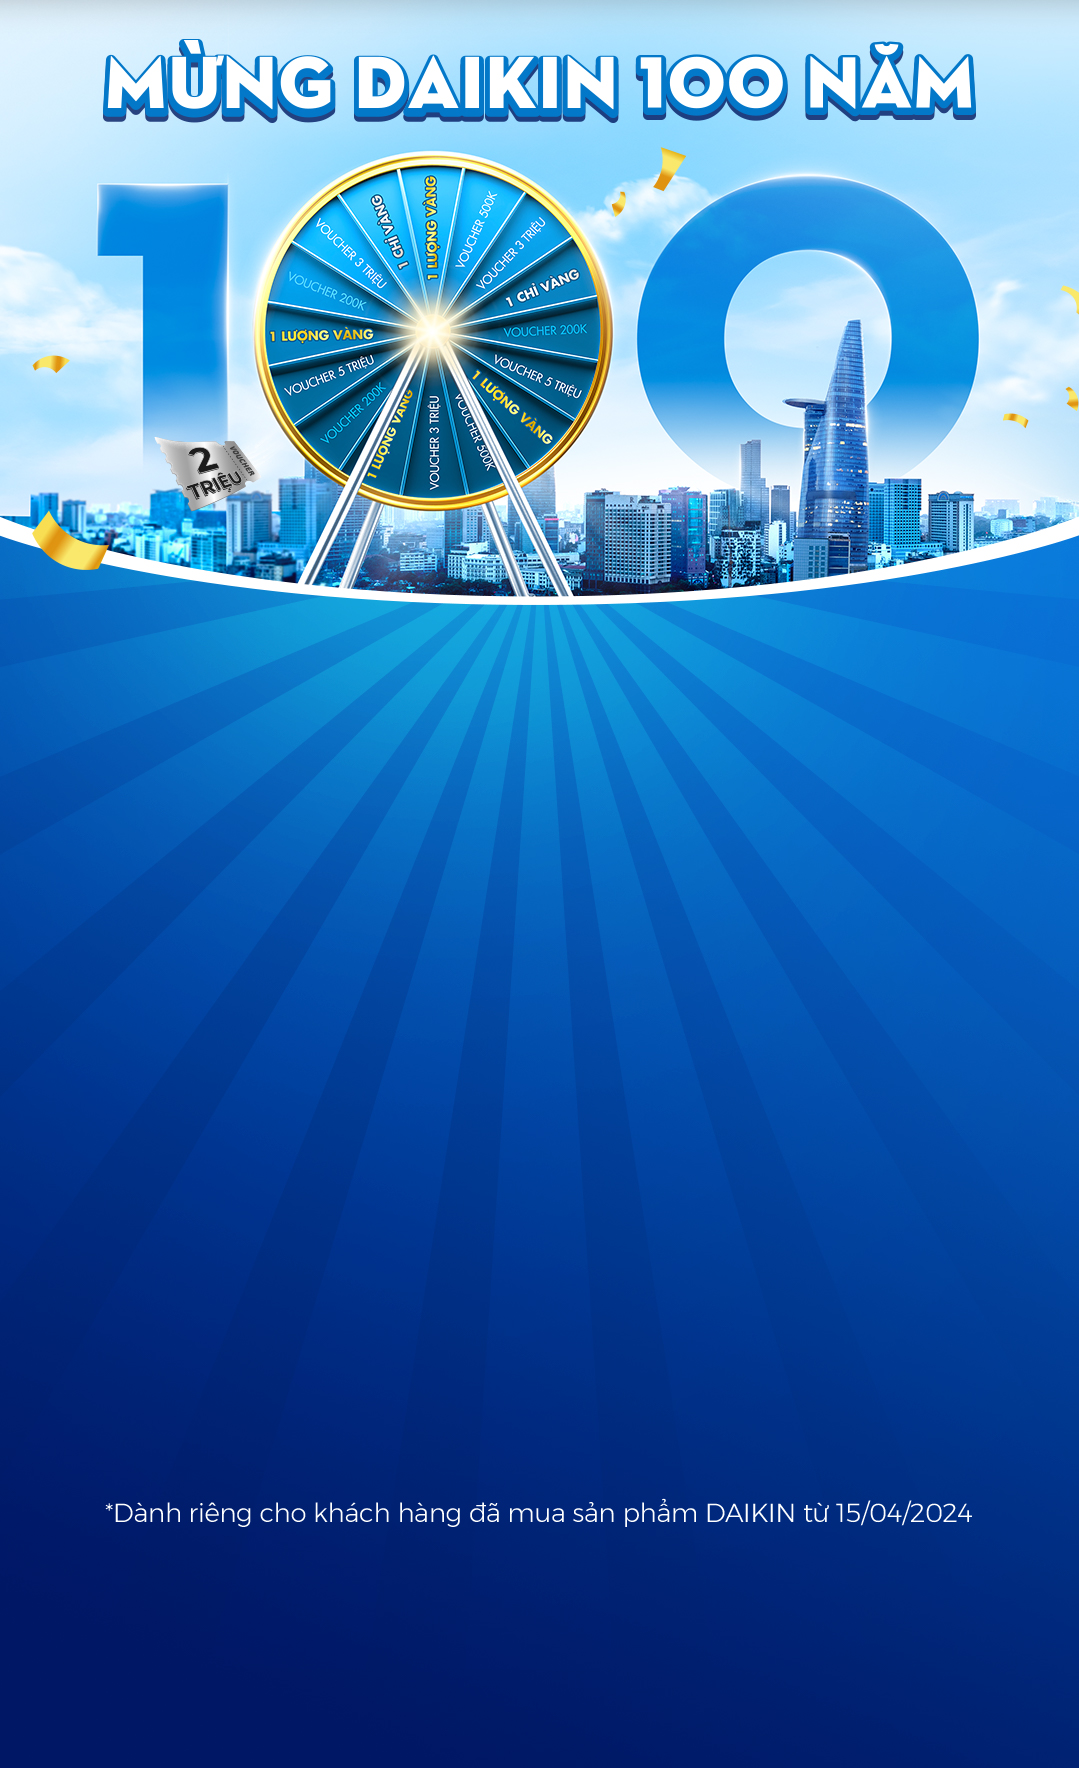
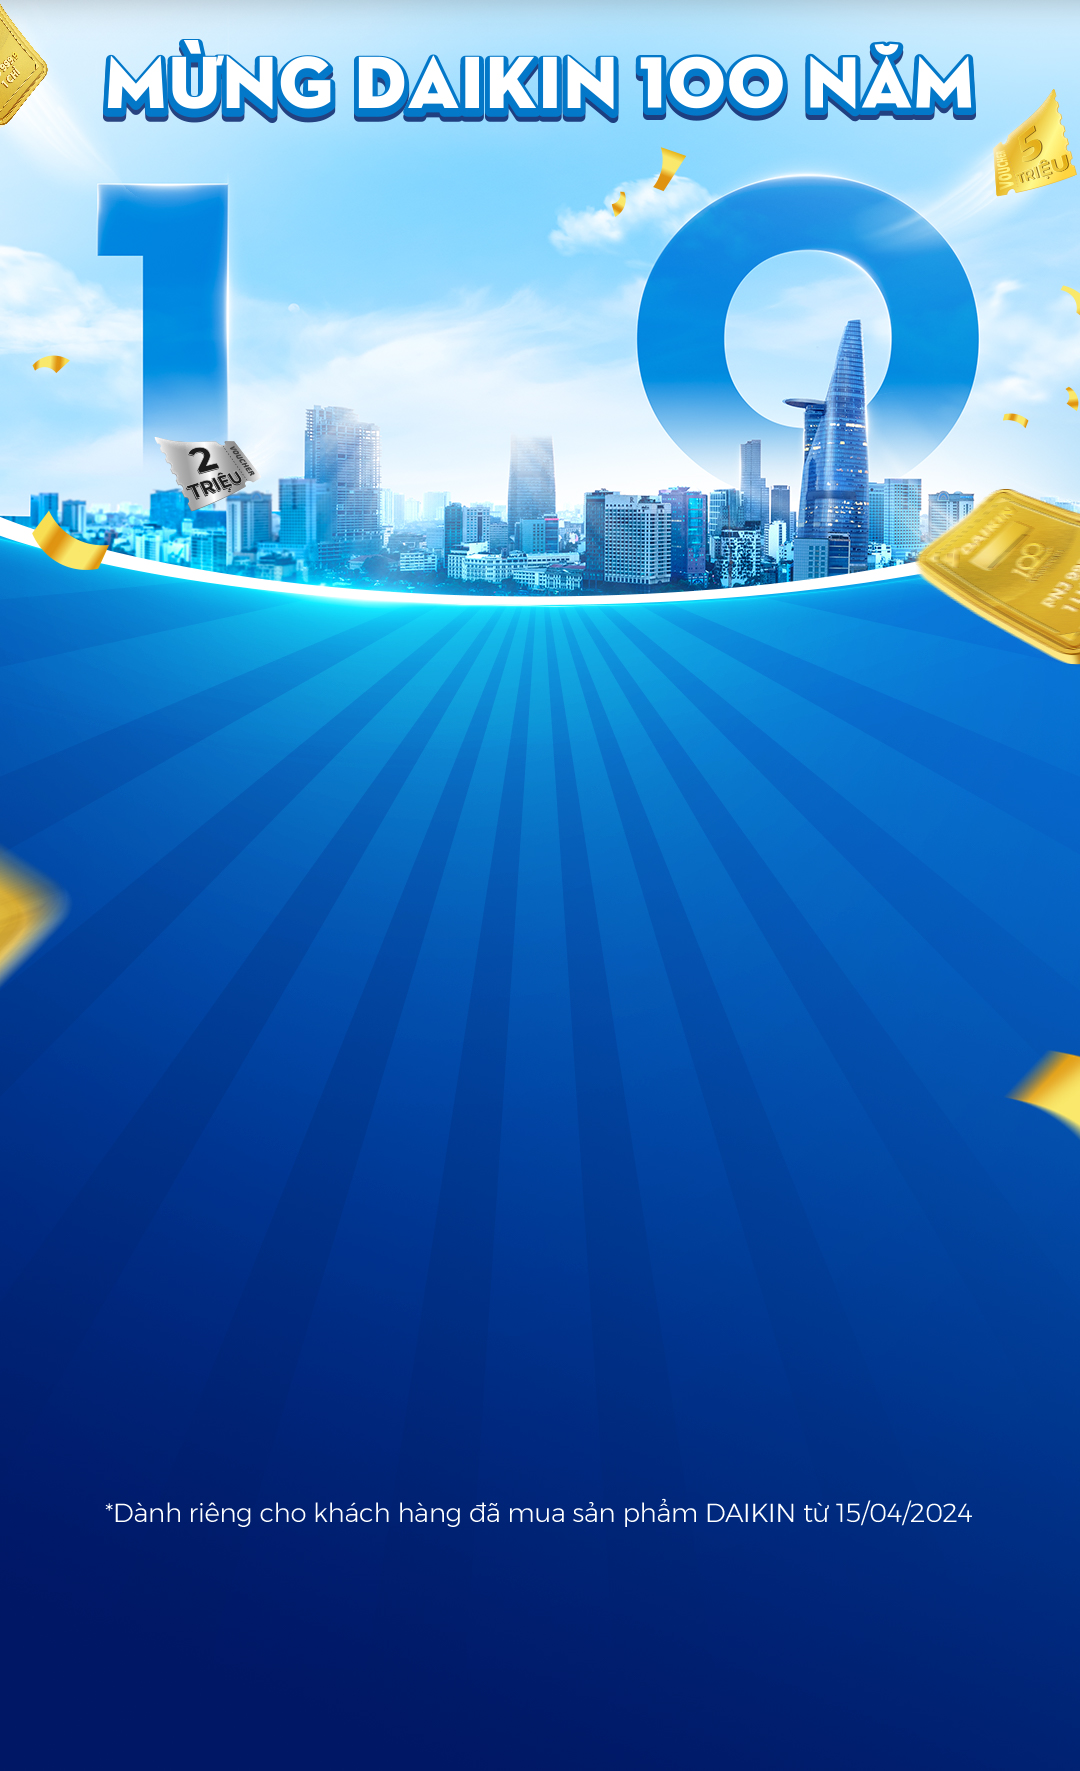
update hiệu ứng trang chủ

diff --git a/css/hieu-ung.css b/css/hieu-ung.css
@@ -6,13 +6,16 @@
 @keyframes zoomk {
     from {
          transform: scale(3.5);
+         opacity: 0.7;
     }
    
-    3% {
+    4.7% {
        transform: scale(1);
+       opacity: 1;
     }
     100% {
        transform: scale(1);
+        opacity: 1;
     }
 }
 .top-banner{
@@ -43,35 +46,35 @@
 }
 .light-3l29{
   position: absolute;
-  width: 17%;
+  width: 14%;
   left: 0%;
-  top:1%;
+  top:2.6%;
   z-index: 2;
   animation: light-hl linear infinite 10s;
 }
 @keyframes light-hl {
     from {
-        left: 0%;
+        left: 0.8%;
         opacity: 0;
     }
     30%{
-      left: 0%;
+      left: 0.8%;
       opacity: 0;
     }
     31%{
-       left: 0%;
+       left: 0.8%;
       opacity: 1;
     }
     45%{
-       left: 80%;
+       left: 82%;
         opacity: 1;
     }
     46%{
-       left: 80%;
+       left: 82%;
         opacity: 0;
     }
     to {
-        left: 80%;
+        left: 82%;
         opacity: 0;
     }
 }
@@ -82,6 +85,7 @@
   
     to {
        transform: rotate(360deg);
+       opacity: 1;
     }
 }
 
@@ -91,6 +95,7 @@
   right: 0px;
   top: 10%;
   width: 10%;
+  display: none;
 }
 @keyframes vang-1 {
     from {
@@ -139,6 +144,7 @@
   right: 0px;
   top: 5%;
   width: 10%;
+  display: none;
 }
 @keyframes vang-2 {
     from {
@@ -184,6 +190,7 @@
   left: 0px;
   top: 5%;
   width: 10%;
+  display: none;
 }
 @keyframes vang-3 {
     from {
@@ -229,6 +236,7 @@
   left: 0px;
   top: 45%;
   width: 10%;
+  display: none;
 }
 @keyframes vang-5 {
     from {
@@ -269,6 +277,7 @@
     
 }
 .vang-6{
+  display: none;
   animation: vang-6 linear infinite 10s;
   position: absolute;
   right: 0px;
@@ -320,11 +329,11 @@
       opacity:0;
       transform:scale3d(.3,.3,.3);
     }
-    4%{
+    7%{
       opacity:0;
       transform:scale3d(.3,.3,.3);
     }
-    8%{
+    11%{
       opacity:1;
       transform:scale3d(1,1,1);
     }
@@ -347,11 +356,11 @@
       opacity:0;
       transform:scale3d(.3,.3,.3);
     }
-    8%{
+    12%{
       opacity:0;
       transform:scale3d(.3,.3,.3);
     }
-    12%{
+    15%{
       opacity:1;
       transform:scale3d(1,1,1);
     }
@@ -393,11 +402,11 @@
       opacity:0;
       transform:scale3d(.3,.3,.3);
     }
-    13%{
+    16%{
       opacity:0;
       transform:scale3d(.3,.3,.3);
     }
-    17%{
+    20%{
       opacity:1;
       transform:scale3d(1,1,1);
     }
@@ -406,4 +415,5 @@
       transform:scale3d(1,1,1);
     }
 }
+
 
